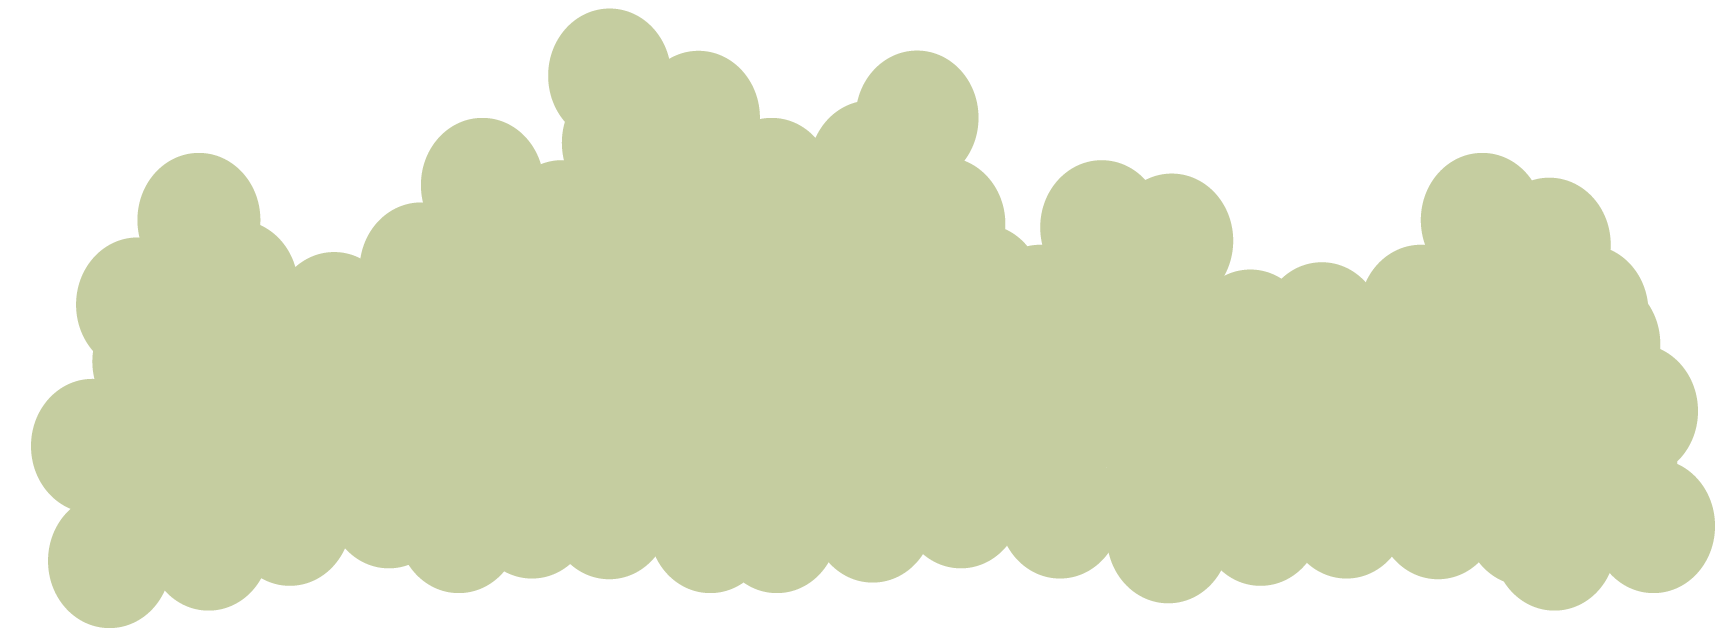
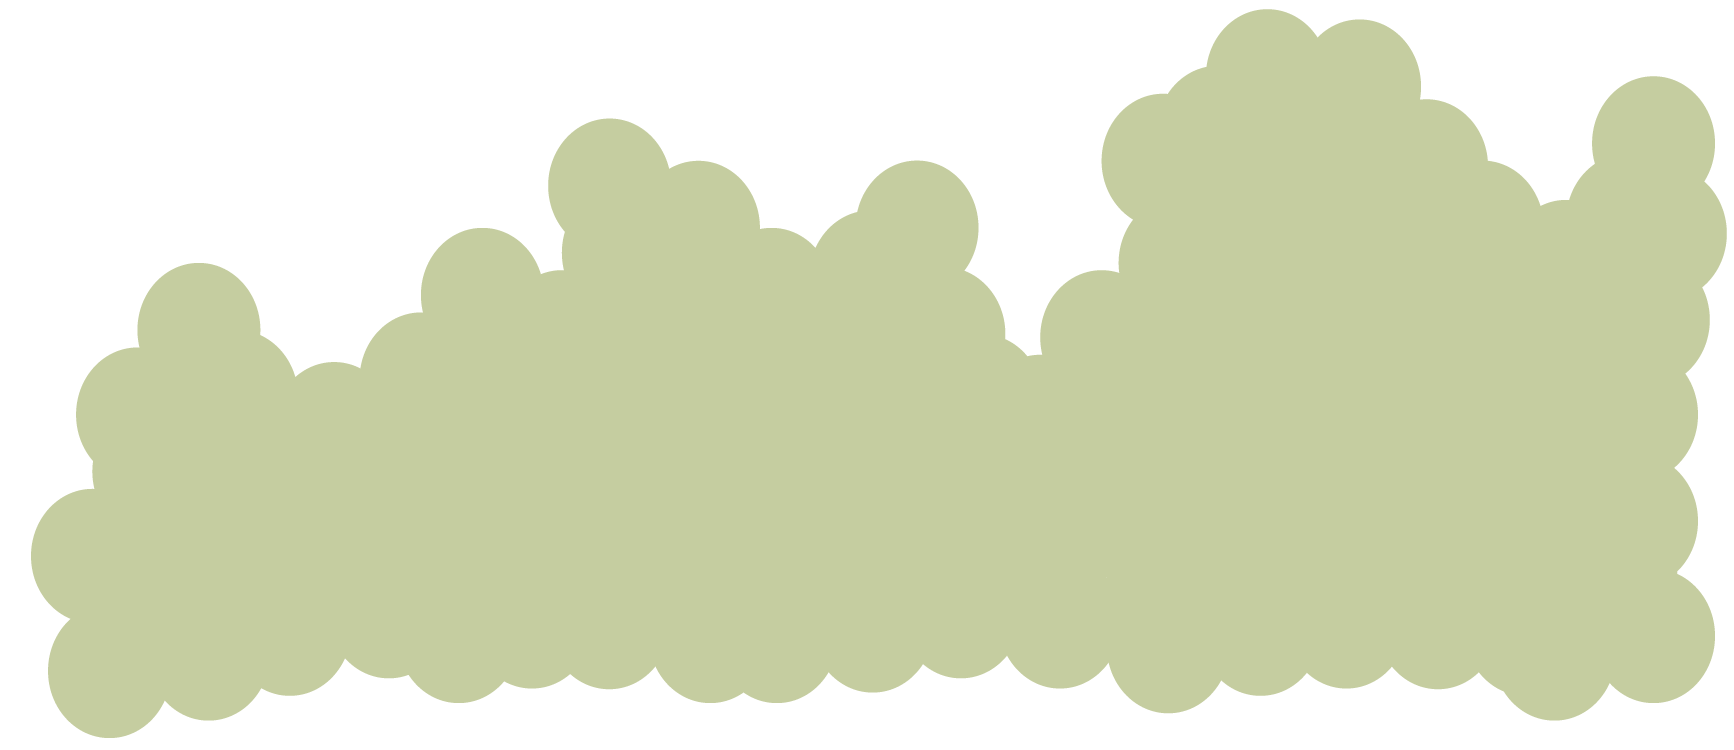
Fix parallax.

diff --git a/parallax_test/style/style.css b/parallax_test/style/style.css
@@ -60,7 +60,7 @@ nav {
   animation-iteration-count: infinite;
   animation-delay: 5s;
   left: -600px;
-  z-index: 5;
+  z-index: 3;
 }
 
 #birdimg2{
@@ -76,14 +76,14 @@ nav {
 
 /* The animation code */
 @keyframes bird {
-  0%   {left:-600px; top:0px;}
-  100%  {left: 1400px; top:0px;}
+  0%   {left:-600px; top:-30px;}
+  100%  {left: 1400px; top:-90px;}
 }
 
 /* The animation code */
 @keyframes bird2 {
-  0%   {left:-600px; top:0px;}
-  100%  {left: 1400px; top:0px;}
+  0%   {left:-600px; top:-50px;}
+  100%  {left: 1400px; top:-10px;}
 }
 
 
@@ -133,7 +133,7 @@ nav {
 #layer4{
   z-index: 7;
   position: fixed;
-  left: 90%; /* align left edge with center of viewport */
+  left: 80%; /* align left edge with center of viewport */
   top: 0;
   margin-left: -750px;
 }
@@ -183,7 +183,7 @@ nav {
 #layer7{
   z-index: 4;
   position: fixed;
-  left: 80%; /* align left edge with center of viewport */
+  left: 75%; /* align left edge with center of viewport */
   top: 0;
   margin-left: -200px;
 }
@@ -226,9 +226,9 @@ nav {
 
 #layer9img {
   position: absolute;
-  top: 100px;
+  top: 70px;
   /*left: 100px;*/
-  height: 400px;
+  height: 470px;
   width: 1300px;
 
 }

diff --git a/parallax_test/js/parallax.js b/parallax_test/js/parallax.js
@@ -22,8 +22,8 @@ $(document).ready(function() {
     $('#layer5').css('top', (0 - (scrolled * .4)) + 'px');
     $('#layer6').css('top', (0 - (scrolled * .2)) + 'px');
     $('#layer7').css('top', (0 - (scrolled * .1)) + 'px');
-    $('#layer8').css('top', (0 - (scrolled * .05)) + 'px');
-    $('#layer9').css('top', (0 - (scrolled * .03)) + 'px');
+    $('#layer8').css('top', (0 - (scrolled * .15)) + 'px');
+    $('#layer9').css('top', (0 - (scrolled * .09)) + 'px');
   }
 
 

diff --git a/README.md b/README.md
@@ -1,1 +1,25 @@
-# monster-maps
+#MONSTER-MAPS
+
+##DESCRIPTION
+This project is an experiment in a few things I wanted to learn:
+1. Parallax
+2. CSS Animations
+3. Google Maps API
+4. CreateJS and EaselJS
+
+#ROUTES
+
+POST - /register
+GET/PATCH/DEL - /user/:username
+POST/GET/ - /user/:username/nopes
+GET/PATCH/DEL - /user/:username/nopes/:id
+GET/POST - /user/:username/nopes/:id/comments
+PATCH/DEL - /user/:username/nopes/:post_id/comments/:id
+
+
+#SCHEMAS
+
+1. Post Schema
+
+
+#WIREFRAMES
